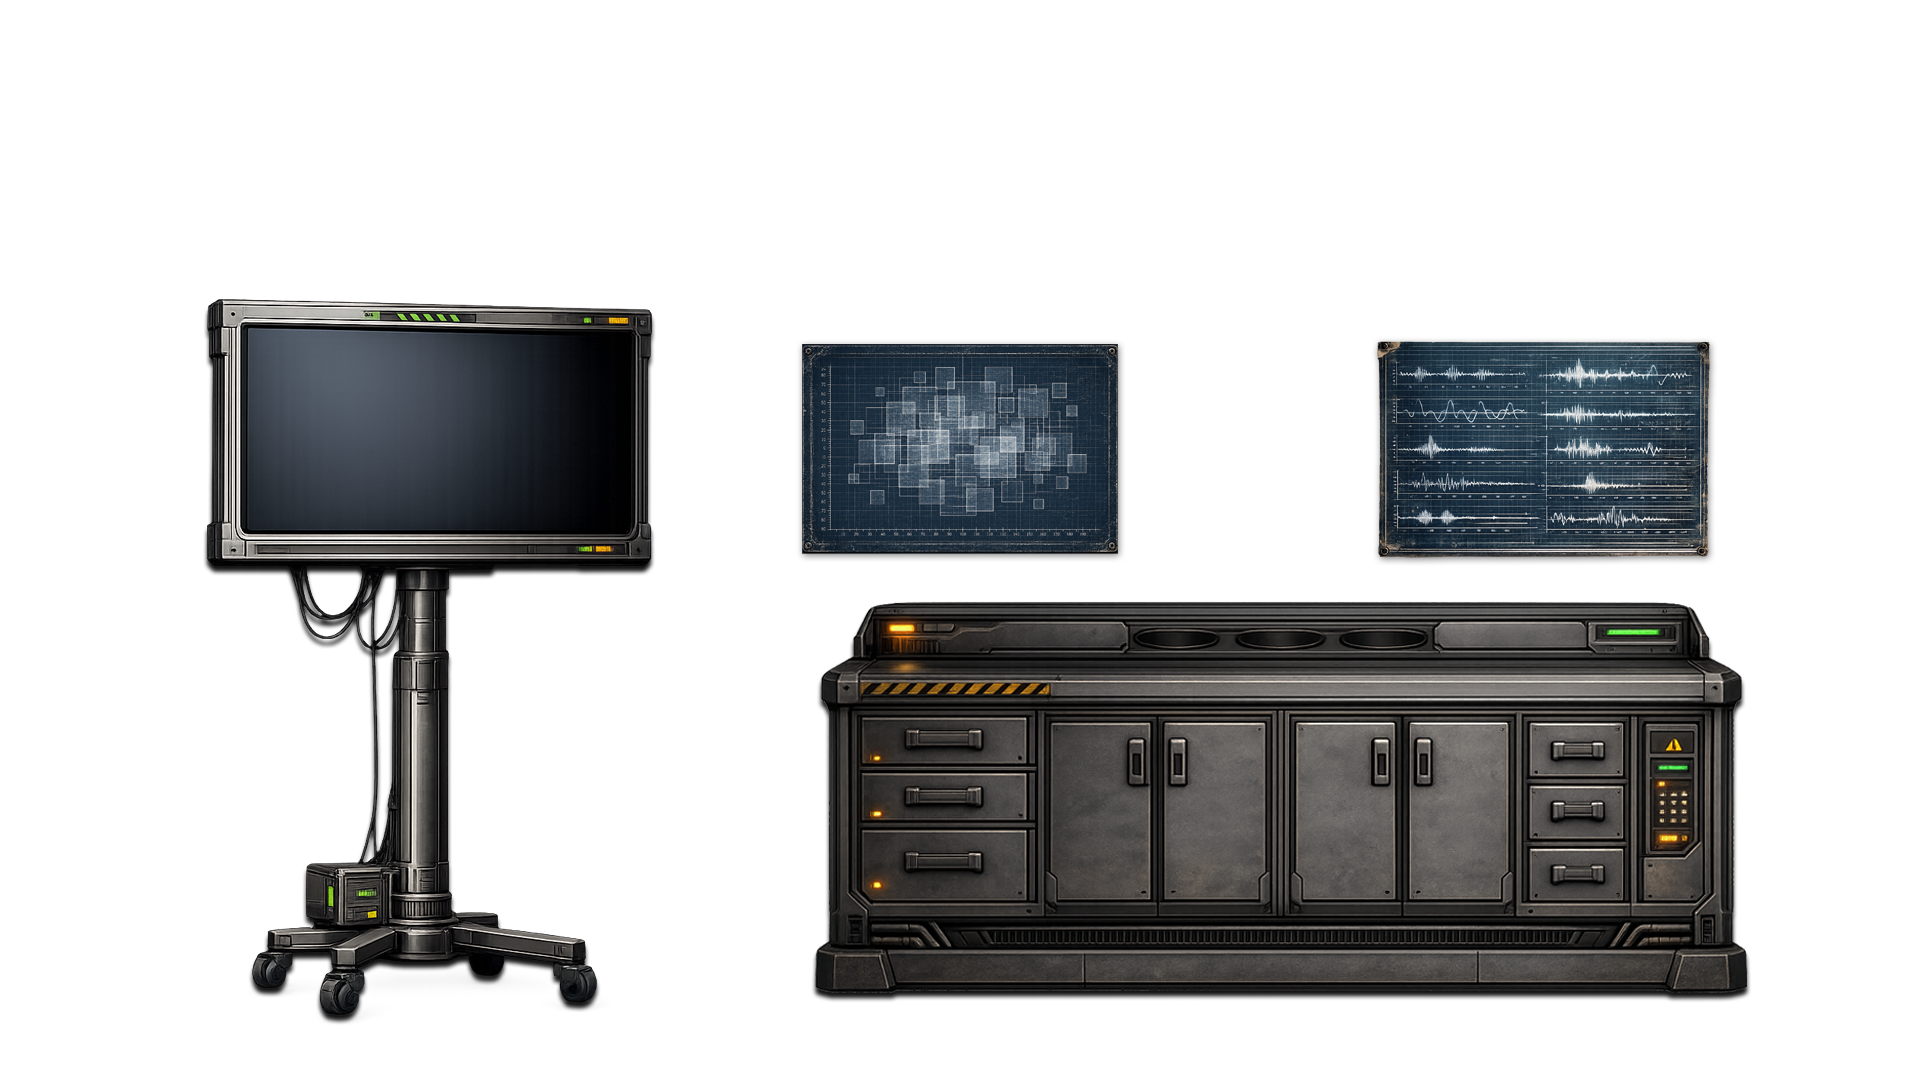
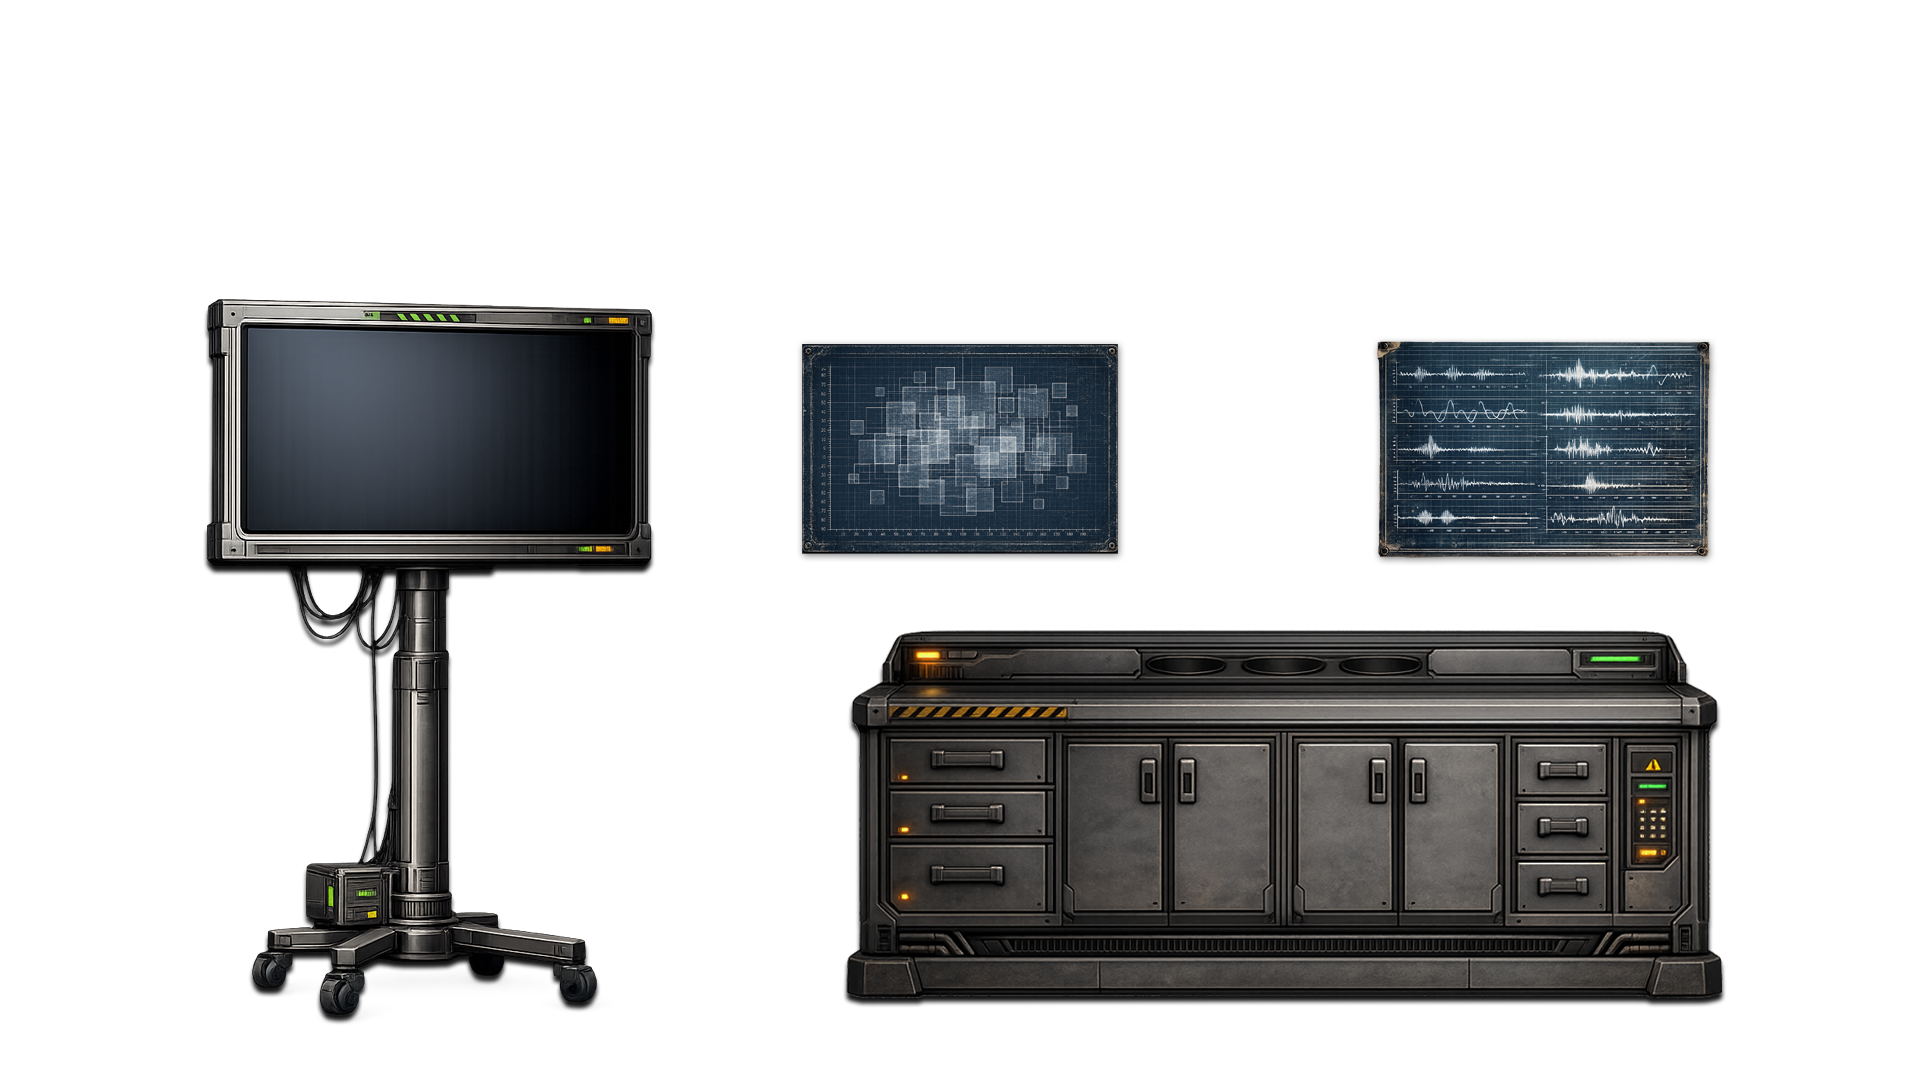
Science Lab 3 specimen experiment overhaul
- Terminal hotspot resized to 428x266 at X222, Y301
- Added wall diagram hotspots (glitch diagram at X804, soundwave diagram at X1386)
- Removed Container A, B, C hotspots
- Removed placeholder SVG sprites; added Glitch 1/2/3 PNG scene overlays
- Added glitch pickup hotspots (120x180): Glitch 1 at X1149, Glitch 2 at X1246
- Added Glitch 3 examine hotspot at X1321 (broken cylinder message)
- Added glitch_specimen_1 and glitch_specimen_2 to ITEMS
- Release button now closes terminal and returns to scene
- Specimen 1 expanded to 7 tiles with new valid chain
- Specimen 2 expanded to 10 tiles with new valid chain
- Removed blue Specimen 1/2/3 labels from home list; CSS grid updated
- Status computes dynamically: ANALYSIS INCOMPLETE vs SEQUENCE VERIFIED
- Intro texts toned down: removed tile/drag/match instructions
- New Glitch PNG images and updated Science Lab 3 specimens.png committed

Changed region(s): [[0.4062, 0.55, 0.9375, 0.9472]]

diff --git a/js/scenes.js b/js/scenes.js
@@ -159,6 +159,20 @@ const ITEMS = {
     cursor: "Images/items/foil%20strips%20cursor.png",
     description: "A few lengths of conductive foil tape. Thin enough to bridge a broken circuit.",
   },
+
+  // Released from specimen containment via the specimen terminal.
+  // Collected from the desk after the stasis field is disengaged.
+  glitch_specimen_1: {
+    name: "Glitch Specimen 1",
+    icon:   "Images/items/glitch_specimen_1.png",
+    description: "A small cluster of translucent crystalline squares. Still shifting, still reorganising. Warm to the touch.",
+  },
+
+  glitch_specimen_2: {
+    name: "Glitch Specimen 2",
+    icon:   "Images/items/glitch_specimen_2.png",
+    description: "A denser cluster than the first — more facets, more movement. It pulses faintly when you hold it.",
+  },
 };
 
 const ROOMS = {
@@ -779,25 +793,26 @@ const ROOMS = {
             image: "Images/Science%20Lab%203%20specimens.png",
             x: 0, y: 0, w: 1920, h: 1080,
           },
-          // ---- Activated specimen placeholders ----
-          // Placeholder SVG overlays shown when each specimen is activated.
-          // Adjust positions inside the SVG files to match the desk holes
-          // in Science Lab 3.png once the final art is in place.
+          // ---- Released specimen glitch overlays ----
+          // Full-scene PNGs that appear on the desk after stasis is released.
+          // Glitch 1 & 2 hide once the player picks up the specimen.
           {
-            id: "specimen1_active_sprite",
-            image: "Images/specimen1_placeholder.svg",
+            id: "specimen1_glitch_sprite",
+            image: "Images/Science%20Lab%203%20Glitch%201.png",
             x: 0, y: 0, w: 1920, h: 1080,
             showIf: { all: ["specimen1_active"] },
+            hideIf: { all: ["glitch1_taken"] },
           },
           {
-            id: "specimen2_active_sprite",
-            image: "Images/specimen2_placeholder.svg",
+            id: "specimen2_glitch_sprite",
+            image: "Images/Science%20Lab%203%20Glitch%202.png",
             x: 0, y: 0, w: 1920, h: 1080,
             showIf: { all: ["specimen2_active"] },
+            hideIf: { all: ["glitch2_taken"] },
           },
           {
-            id: "specimen3_active_sprite",
-            image: "Images/specimen3_placeholder.svg",
+            id: "specimen3_glitch_sprite",
+            image: "Images/Science%20Lab%203%20Glitch%203.png",
             x: 0, y: 0, w: 1920, h: 1080,
             showIf: { all: ["specimen3_active"] },
           },
@@ -805,13 +820,11 @@ const ROOMS = {
         overlays: [],
         hotspots: [
           // ---- Specimen terminal ----
-          // Vance's tone-puzzle activation interface. Replaced the old
-          // 3-digit dial lock — the storage unit is now open; the terminal
-          // is the primary interactive element on this wall.
+          // Vance's tone-puzzle activation interface.
           {
             id: "scilab_specimen_terminal",
             shape: "rect",
-            geom: [150, 180, 500, 640],
+            geom: [222, 301, 428, 266],
             label: "Specimen terminal",
             action: {
               type: "openCloseup",
@@ -819,54 +832,68 @@ const ROOMS = {
               message: "A research terminal. Vance's notes on the Glitch specimens and their tonal activation sequences.",
             },
           },
-          // ---- Container A — has frequency emitter ----
-          // Contains the frequency emitter (scanner component 2/4).
+          // ---- Wall diagram — glitch ----
           {
-            id: "scilab_container_a",
+            id: "scilab_diagram_glitch",
             shape: "rect",
-            geom: [180, 220, 140, 300],
-            label: "Container A",
-            hideIf: { all: ["freq_emitter_taken"] },
-            action: {
-              type: "pickup",
-              item: "freq_emitter",
-              flags: ["container_a_examined", "freq_emitter_taken"],
-              message: "Container A is empty — no specimen. But Vance stored something here for safekeeping: a small audio transducer in a padded case. Handwritten label: 'Freq. emitter — reactive band.' A component for the scanner.",
-            },
-          },
-          {
-            id: "scilab_container_a_empty",
-            shape: "rect",
-            geom: [180, 220, 140, 300],
-            label: "Container A — empty",
-            showIf: { all: ["freq_emitter_taken"] },
+            geom: [804, 343, 315, 213],
+            label: "Wall diagram",
             action: {
               type: "message",
-              message: "Container A is empty. The frequency emitter has been retrieved. The container itself is clean — whatever specimen was catalogued here is gone. Tarn's badge was last logged in this lab before the shuttle launched.",
+              message: "A pinned diagram of the Glitch — cross-section sketches of the crystalline structure, annotated in Vance's handwriting. The shapes shift between frames as if the specimen refused to stay still long enough to be drawn.",
             },
           },
-          // ---- Container B — cracked ----
+          // ---- Wall diagram — soundwaves ----
           {
-            id: "scilab_container_b",
+            id: "scilab_diagram_soundwaves",
             shape: "rect",
-            geom: [360, 220, 140, 300],
-            label: "Container B — cracked",
+            geom: [1386, 343, 315, 213],
+            label: "Wall diagram",
             action: {
-              type: "setState",
-              flags: ["container_b_examined"],
-              message: "Container B's seal is broken from the inside. The glass is cracked in an outward pattern. Inside, there are faint traces of residue — a kind of crystalline film left behind when the specimen moved through. This is where the glitch escaped during Vance's experiment.",
+              type: "message",
+              message: "A printed diagram of different soundwave profiles — high, mid, and low frequency waveforms stacked and labelled. Someone has circled the mid-range band in red marker.",
             },
           },
-          // ---- Container C — live specimen ----
+          // ---- Glitch 1 — pickup from desk ----
           {
-            id: "scilab_container_c",
+            id: "scilab_glitch1_pickup",
             shape: "rect",
-            geom: [540, 220, 140, 300],
-            label: "Container C — live specimen",
+            geom: [1149, 499, 120, 180],
+            label: "Glitch specimen",
+            showIf: { all: ["specimen1_active"] },
+            hideIf: { all: ["glitch1_taken"] },
             action: {
-              type: "setState",
-              flags: ["container_c_examined"],
-              message: "Container C is intact and sealed. Inside, a cluster of small translucent squares shifts and reorganises slowly. It seems aware of you — the cluster orients toward the glass as you lean in. The squares are hollow, crystalline, and beautiful in a way that makes the back of your neck tighten. This is the only surviving glitch specimen on the ship.",
+              type: "pickup",
+              item: "glitch_specimen_1",
+              flags: ["glitch1_taken"],
+              message: "The specimen sits motionless on the desk — its translucent squares arranged in a quiet stack. You pick it up carefully. It feels lighter than it looks.",
+            },
+          },
+          // ---- Glitch 2 — pickup from desk ----
+          {
+            id: "scilab_glitch2_pickup",
+            shape: "rect",
+            geom: [1246, 499, 120, 180],
+            label: "Glitch specimen",
+            showIf: { all: ["specimen2_active"] },
+            hideIf: { all: ["glitch2_taken"] },
+            action: {
+              type: "pickup",
+              item: "glitch_specimen_2",
+              flags: ["glitch2_taken"],
+              message: "The specimen pulses faintly as you reach for it. Its cluster of squares is denser than the first — more complex, more alive. You close your hand around it and it goes still.",
+            },
+          },
+          // ---- Glitch 3 — broken cylinder ----
+          {
+            id: "scilab_glitch3_examine",
+            shape: "rect",
+            geom: [1321, 499, 120, 180],
+            label: "Broken specimen cylinder",
+            showIf: { all: ["specimen3_active"] },
+            action: {
+              type: "message",
+              message: "A broken specimen cylinder — the seal shattered outward. Whatever was inside is gone. Something escaped.",
             },
           },
         ],

diff --git a/js/scilab_specimen_terminal.js b/js/scilab_specimen_terminal.js
@@ -51,59 +51,55 @@
     {
       id: "specimen1", label: "SPECIMEN 1",
       solvedFlag: "specimen1_solved", playedFlag: "specimen1_played", activeFlag: "specimen1_active",
-      statusMeta: "5-TILE SEQUENCE · ANALYSIS INCOMPLETE",
+      activateMsg: null,
       introText:
         "I am confident I have isolated the correct set of tones for Specimen 1. " +
         "The specimen responds to audio stimuli more readily than the others — its " +
-        "structure visibly shifts when specific frequencies are applied. Each tile " +
-        "carries two tones. The second tone of each tile must match the first tone " +
-        "of the tile to its right. Drag the tiles into the correct order, then play " +
-        "the sequence to confirm before activating.",
-      activateMsg:
-        "The containment field shifts frequency. Specimen 1 rises slowly from the " +
-        "desk, its translucent squares catching the emergency light. It's active.",
-      // Chain solved by [0,1,2,3,4]:
-      //   (0,1)→(1,2)→(2,0)→(0,2)→(2,1)  all t2=next t1 ✓
+        "structure visibly shifts when specific frequencies are applied. The tones " +
+        "must be played in the correct sequence. Play and confirm before activating.",
+      // Chain solved by [0,1,2,3,4,5,6]:
+      //   (0,1)→(1,2)→(2,0)→(0,2)→(2,1)→(1,0)→(0,2)  all t2=next t1 ✓
       tiles: [
         { id: 0, t1: 0, t2: 1 },
         { id: 1, t1: 1, t2: 2 },
         { id: 2, t1: 2, t2: 0 },
         { id: 3, t1: 0, t2: 2 },
         { id: 4, t1: 2, t2: 1 },
+        { id: 5, t1: 1, t2: 0 },
+        { id: 6, t1: 0, t2: 2 },
       ],
-      startOrder: [3, 1, 4, 0, 2],
+      startOrder: [3, 6, 1, 5, 0, 4, 2],
     },
     {
       id: "specimen2", label: "SPECIMEN 2",
       solvedFlag: "specimen2_solved", playedFlag: "specimen2_played", activeFlag: "specimen2_active",
-      statusMeta: "7-TILE SEQUENCE · ANALYSIS INCOMPLETE",
+      activateMsg: null,
       introText:
         "Specimen 2 is considerably more complex than the first. I am detecting " +
         "more distinct tonal relationships, and their order is less obvious on " +
-        "initial analysis. Three sessions to isolate the individual tiles; I " +
-        "believe the set is complete. The sequencing logic is identical to Specimen " +
-        "1 — each tile's second tone must match the first tone of the tile to its " +
-        "right. There are simply more tiles to order. Work carefully.",
-      activateMsg:
-        "The containment field hums at a higher register. Specimen 2 rises from " +
-        "the desk, its structure pulsing with a faint blue luminescence. It's active.",
-      // Chain solved by [0,1,2,3,4,5,6]:
-      //   (0,1)→(1,2)→(2,1)→(1,1)→(1,0)→(0,2)→(2,0)  all t2=next t1 ✓
+        "initial analysis. Three sessions to isolate the individual components — " +
+        "I believe the set is complete. The sequencing logic follows from Specimen 1. " +
+        "Work carefully.",
+      // Chain solved by [0,1,2,3,4,5,6,7,8,9]:
+      //   (0,1)→(1,2)→(2,0)→(0,1)→(1,0)→(0,2)→(2,1)→(1,2)→(2,2)→(2,0)  all t2=next t1 ✓
       tiles: [
         { id: 0, t1: 0, t2: 1 },
         { id: 1, t1: 1, t2: 2 },
-        { id: 2, t1: 2, t2: 1 },
-        { id: 3, t1: 1, t2: 1 },
+        { id: 2, t1: 2, t2: 0 },
+        { id: 3, t1: 0, t2: 1 },
         { id: 4, t1: 1, t2: 0 },
         { id: 5, t1: 0, t2: 2 },
-        { id: 6, t1: 2, t2: 0 },
+        { id: 6, t1: 2, t2: 1 },
+        { id: 7, t1: 1, t2: 2 },
+        { id: 8, t1: 2, t2: 2 },
+        { id: 9, t1: 2, t2: 0 },
       ],
-      startOrder: [4, 1, 6, 2, 0, 5, 3],
+      startOrder: [5, 2, 8, 0, 7, 3, 9, 1, 6, 4],
     },
     {
       id: "specimen3", label: "SPECIMEN 3",
       solvedFlag: "specimen3_solved", playedFlag: "specimen3_played", activeFlag: "specimen3_active",
-      statusMeta: "5-TILE SEQUENCE · SEQUENCE VERIFIED",
+      activateMsg: null,
       preSolved: true,
       introText:
         "Finally. After weeks of careful observation I believe I have isolated the " +
@@ -375,15 +371,15 @@
           const active  = ctx.hasFlag(spec.activeFlag);
           const solved  = isSolved(i) || ctx.hasFlag(spec.solvedFlag);
           const status  = active ? "ACTIVE" : (solved ? "SOLVED" : "STASIS");
+          const metaText = solved ? "SEQUENCE VERIFIED" : "ANALYSIS INCOMPLETE";
           return el("button", {
             type: "button",
             class: "st-spec-row" + (active ? " st-spec-active" : ""),
             onclick: () => { currentView = "detail"; selectedSpec = i; ctx.renderActive(); },
           }, [
-            el("span", { class: "st-spec-num"    }, [spec.label]),
             el("div",  { class: "st-spec-info"   }, [
               el("span", { class: "st-spec-title" }, [spec.label]),
-              el("span", { class: "st-spec-meta"  }, [spec.statusMeta]),
+              el("span", { class: "st-spec-meta"  }, [metaText]),
             ]),
             el("span", { class: "st-spec-status" }, [status]),
             el("span", { class: "ct-pod-chevron" }, ["❯"]),
@@ -514,11 +510,6 @@
         ctx.setFlag(spec.activeFlag);
         ctx.closeCloseup();
         ctx.renderActive();
-        ctx.showMessage(
-          spec.activateMsg ||
-          "The containment field activates. The chamber reads empty. " +
-          "Specimen 3 is not in storage. It is not here."
-        );
       } : null,
     }, [isActive ? "STASIS RELEASED" : "RELEASE STASIS"]);
 

diff --git a/css/style.css b/css/style.css
@@ -1751,7 +1751,7 @@ html, body {
 /* Specimen row — mirrors .lt-log-row exactly */
 .st-spec-row {
   display: grid;
-  grid-template-columns: 140px 1fr 90px 28px;
+  grid-template-columns: 1fr 90px 28px;
   align-items: center;
   gap: 18px;
   padding: 14px 18px 14px 22px;
